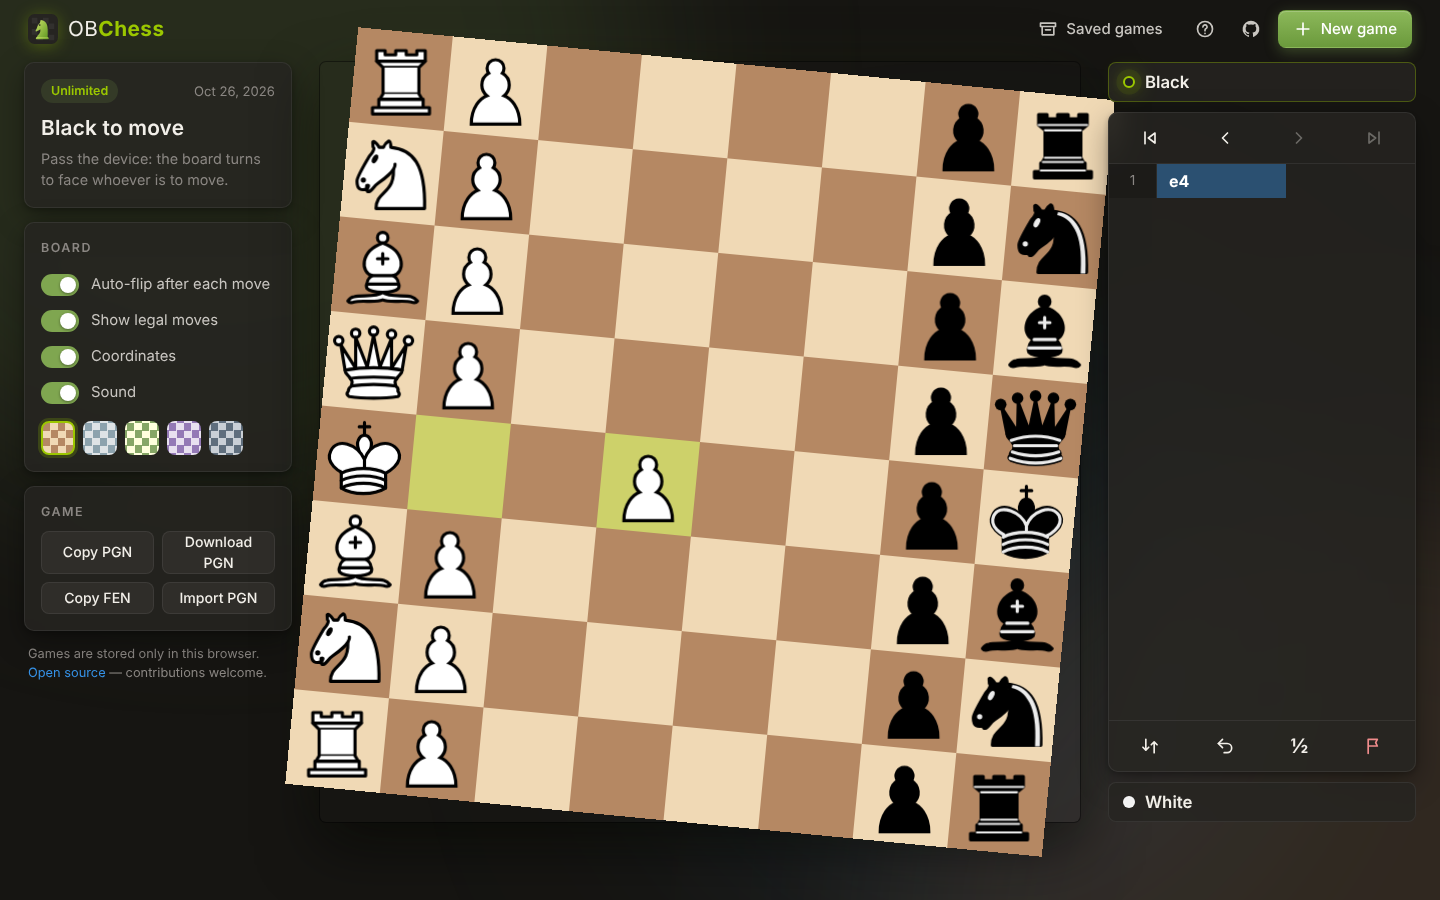
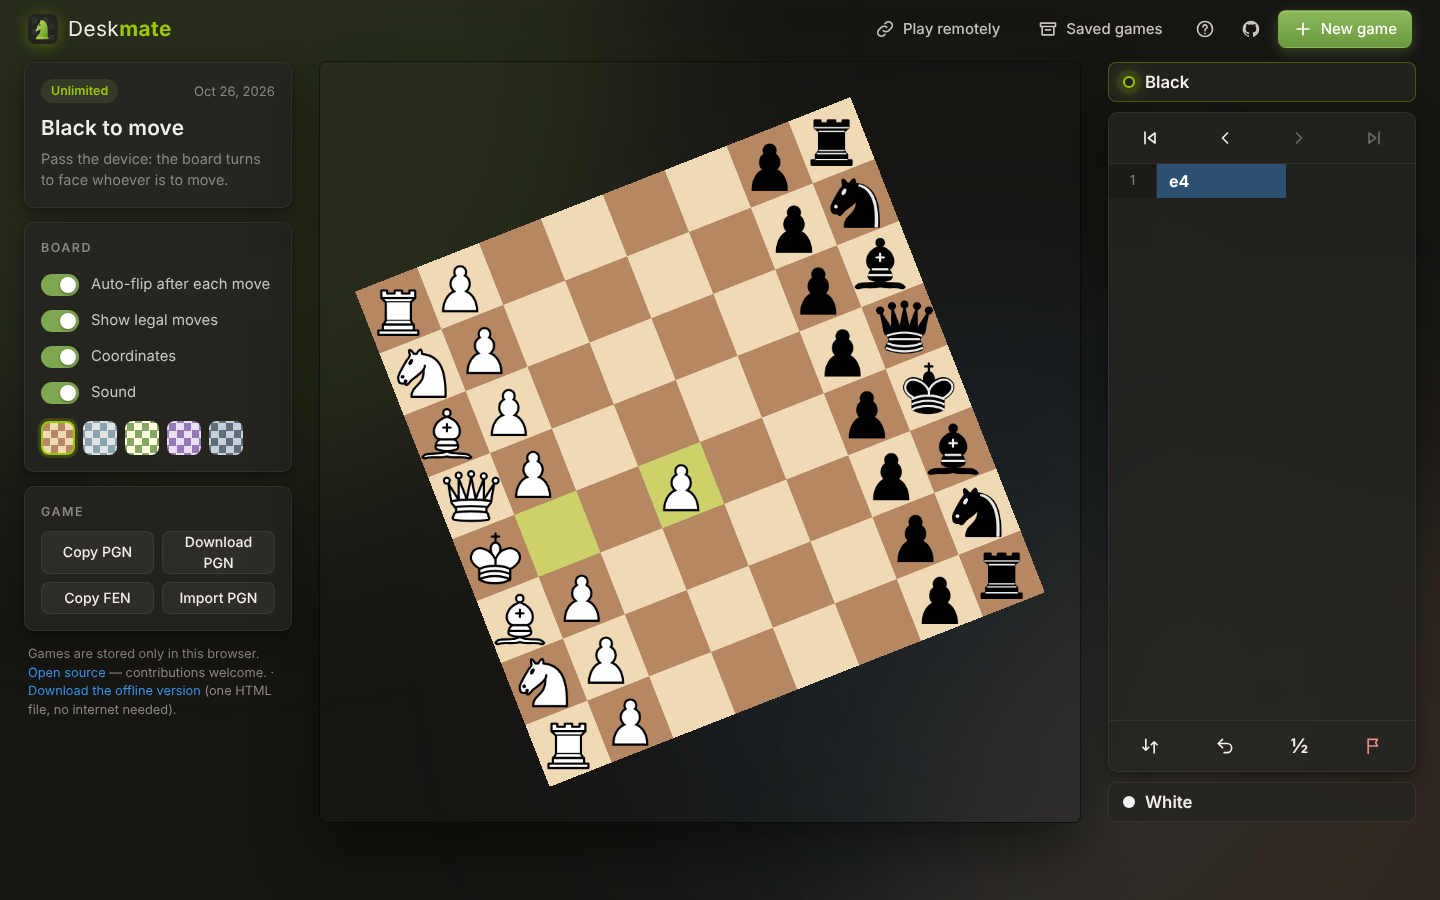
Rename the app to Deskmate
- brand, page title, manifest, PGN Site tag, docs and screenshots now say
  Deskmate; repo and Pages URLs are unchanged (the repo is still OBChess)
- game codes now start with DM1-; codes sent before the rename (OBC1-)
  are still accepted
- saved games and settings move from obchess:* to deskmate:* keys
  automatically on first load
- offline build is now deskmate.html
- shrink the board while it spins so the 45° mid-flip frame no longer
  spills over the side panels

Claude-Session: https://claude.ai/code/session_01KDQdv6Wnc5E9mhCg2NSnNR

diff --git a/index.html b/index.html
@@ -3,7 +3,7 @@
 <head>
   <meta charset="utf-8" />
   <meta name="viewport" content="width=device-width, initial-scale=1, viewport-fit=cover" />
-  <title>OBChess · Over-the-board chess</title>
+  <title>Deskmate · Chess with your colleagues</title>
   <meta name="description" content="Free, open-source over-the-board chess for two players on one screen. Auto-flipping board, legal move hints, clocks and local game history. No account, no tracking." />
   <meta name="theme-color" content="#161512" />
   <link rel="icon" href="assets/icon.svg" type="image/svg+xml" />
@@ -14,9 +14,9 @@
   <div class="aurora" aria-hidden="true"><i></i><i></i><i></i></div>
 
   <header class="topbar">
-    <a class="brand" href="./" aria-label="OBChess home">
+    <a class="brand" href="./" aria-label="Deskmate home">
       <img src="assets/icon.svg" alt="" width="30" height="30" />
-      <span>OB<b>Chess</b></span>
+      <span>Desk<b>mate</b></span>
     </a>
     <nav class="top-actions">
       <button class="btn ghost" id="btn-remote" title="Play a colleague on another laptop"><svg viewBox="0 0 24 24"><path d="M10 14a4.5 4.5 0 0 0 6.4 0l3-3a4.5 4.5 0 0 0-6.4-6.4l-1 1"/><path d="M14 10a4.5 4.5 0 0 0-6.4 0l-3 3a4.5 4.5 0 0 0 6.4 6.4l1-1"/></svg><span>Play remotely</span></button>
@@ -72,7 +72,7 @@
         <button class="btn small" id="btn-import">Import PGN</button>
       </section>
 
-      <p class="side-foot muted">Games are stored only in this browser. <a href="https://github.com/abhieq31/OBChess" target="_blank" rel="noopener">Open source</a> — contributions welcome.<span class="offline-dl"> · <a href="obchess.html" download>Download the offline version</a> (one HTML file, no internet needed).</span></p>
+      <p class="side-foot muted">Games are stored only in this browser. <a href="https://github.com/abhieq31/OBChess" target="_blank" rel="noopener">Open source</a> — contributions welcome.<span class="offline-dl"> · <a href="deskmate.html" download>Download the offline version</a> (one HTML file, no internet needed).</span></p>
     </aside>
 
     <section class="board-area">
@@ -153,7 +153,7 @@
       <button class="btn icon-only ghost" data-close aria-label="Close"><svg viewBox="0 0 24 24"><path d="M6 6l12 12M18 6 6 18"/></svg></button>
     </div>
     <ol class="steps">
-      <li><b>Make a move.</b> OBChess gives you a short game code.</li>
+      <li><b>Make a move.</b> Deskmate gives you a short game code.</li>
       <li><b>Send the code</b> through Teams, Slack, email or any chat.</li>
       <li><b>They paste it</b>, make their move and send a code back.</li>
     </ol>
@@ -179,7 +179,7 @@
       </div>
     </form>
     <form method="dialog" id="form-remote-join" data-pane="join" class="hidden">
-      <textarea id="remote-join-text" rows="4" spellcheck="false" placeholder="Paste the code your colleague sent (it starts with OBC1-)"></textarea>
+      <textarea id="remote-join-text" rows="4" spellcheck="false" placeholder="Paste the code your colleague sent (it starts with DM1-)"></textarea>
       <div class="modal-actions">
         <button type="button" class="btn" data-close>Cancel</button>
         <button type="submit" class="btn primary">Join game</button>

diff --git a/js/app.js b/js/app.js
@@ -1,10 +1,10 @@
-// OBChess application controller: wires the game model, board, clocks, storage and UI.
+// Deskmate application controller: wires the game model, board, clocks, storage and UI.
 import { Game, TIME_CONTROLS, checkSquare, material } from './game.js';
 import { Board } from './board.js';
 import { storage } from './storage.js';
 import { sound } from './sound.js';
 import { confetti } from './confetti.js';
-import { encodeCode, decodeCode, compareToLocal } from './remote.js';
+import { encodeCode, decodeCode, compareToLocal, hasCode } from './remote.js';
 
 const $ = (sel) => document.querySelector(sel);
 const $$ = (sel) => [...document.querySelectorAll(sel)];
@@ -157,7 +157,7 @@ function renderStatus() {
   }
   $('#status-text').textContent = title;
   $('#status-sub').textContent = sub;
-  document.title = g.result ? `${g.winnerText()} · OBChess` : review ? 'Review · OBChess' : `${colorName(game.turn)} to move · OBChess`;
+  document.title = g.result ? `${g.winnerText()} · Deskmate` : review ? 'Review · Deskmate' : `${colorName(game.turn)} to move · Deskmate`;
 
   const banner = $('#review-banner');
   const showBanner = !!review || viewPly !== game.length;
@@ -446,7 +446,7 @@ $('#archive-clear').addEventListener('click', () => {
 $('#archive-export').addEventListener('click', () => {
   const list = storage.loadArchive();
   if (!list.length) return toast('Nothing to export');
-  saveFile(`obchess-games-${Date.now()}.pgn`, list.map((g) => new Game(g).pgn()).join('\n'));
+  saveFile(`deskmate-games-${Date.now()}.pgn`, list.map((g) => new Game(g).pgn()).join('\n'));
 });
 
 $('#form-import').addEventListener('submit', (e) => {
@@ -753,13 +753,13 @@ function applyFromHash() {
   history.replaceState(null, '', location.pathname + location.search);
   joinOrUpdate(text);
 }
-addEventListener('hashchange', () => { if (location.hash.includes('OBC1-')) applyFromHash(); });
+addEventListener('hashchange', () => { if (hasCode(location.hash)) applyFromHash(); });
 
 // paste a code anywhere on the page
 document.addEventListener('paste', (e) => {
   if (e.target.closest('input, textarea')) return;
   const text = e.clipboardData?.getData('text') || '';
-  if (!text.includes('OBC1-')) return;
+  if (!hasCode(text)) return;
   e.preventDefault();
   joinOrUpdate(text);
 });
@@ -812,7 +812,7 @@ applyPrefs();
 if (!/^https?:$/.test(location.protocol)) $('.offline-dl')?.remove();
 board.setOrientation(homeOrientation());
 render();
-if (location.hash.includes('OBC1-')) applyFromHash();
+if (hasCode(location.hash)) applyFromHash();
 if (paused) toast('Game restored — clocks paused');
 else if (game.length) toast('Game restored');
 

diff --git a/js/remote.js b/js/remote.js
@@ -1,12 +1,18 @@
 // Game codes for remote play: the whole game is packed into a short text code
 // that players paste to each other in any chat tool. No server is involved.
 //
-// Code = "OBC1-" + base64url(JSON payload). Moves are stored as one byte each:
+// Code = "DM1-" + base64url(JSON payload); codes from before the rename start "OBC1-".
+// Moves are stored as one byte each:
 // the index of the move in the position's legal moves, sorted by from+to+promotion,
 // so the encoding doesn't depend on the move order of any particular chess library.
 import { Chess } from '../vendor/chess.js';
 
-export const CODE_PREFIX = 'OBC1-';
+export const CODE_PREFIX = 'DM1-';
+// any code this version can read: the current prefix plus the pre-rename one
+const CODE_RE = /\b(?:DM1|OBC1)-([A-Za-z0-9_-]+)/;
+
+/** True if the text contains something that looks like a game code. */
+export const hasCode = (text) => CODE_RE.test(String(text));
 
 const sortedMoves = (chess) =>
   chess.moves({ verbose: true })
@@ -60,11 +66,11 @@ export function encodeCode(g) {
 
 /** Extract and decode a code from arbitrary pasted text (a bare code, a chat message or a link). */
 export function decodeCode(text) {
-  const match = /OBC1-[A-Za-z0-9_-]+/.exec(String(text));
-  if (!match) throw new Error('No OBChess game code found.');
+  const match = CODE_RE.exec(String(text));
+  if (!match) throw new Error('No Deskmate game code found.');
   let p;
   try {
-    p = JSON.parse(new TextDecoder().decode(fromB64url(match[0].slice(CODE_PREFIX.length))));
+    p = JSON.parse(new TextDecoder().decode(fromB64url(match[1])));
   } catch {
     throw new Error('This code is damaged — ask your opponent to copy it again.');
   }

diff --git a/css/style.css b/css/style.css
@@ -1,5 +1,5 @@
 /* ==========================================================================
-   OBChess — styles. Dark, lichess-inspired UI. No build step, no framework.
+   Deskmate — styles. Dark, lichess-inspired UI. No build step, no framework.
    ========================================================================== */
 
 :root {
@@ -189,7 +189,12 @@ h3 { font-size: 0.78rem; text-transform: uppercase; letter-spacing: 0.12em; colo
   position: absolute; inset: 0; border-radius: 6px; overflow: hidden;
   transform: rotate(var(--rot));
 }
-.board.flipping .board-inner { transition: transform 0.62s cubic-bezier(.65, 0, .35, 1); overflow: visible; }
+.board.flipping .board-inner {
+  transition: transform 0.62s cubic-bezier(.65, 0, .35, 1); overflow: visible;
+  /* a square turned 45° is 1.41x as wide: shrink to 0.7 while turning so it stays in its own column */
+  animation: flipShrink 0.62s linear;
+}
+@keyframes flipShrink { 30%, 70% { scale: 0.7; } }
 
 .squares { position: absolute; inset: 0; display: grid; grid-template: repeat(8, 1fr) / repeat(8, 1fr); }
 .sq { position: relative; }

diff --git a/js/storage.js b/js/storage.js
@@ -1,6 +1,16 @@
 // localStorage persistence. Everything stays in this browser; nothing is sent anywhere.
-const KEYS = { current: 'obchess:current', archive: 'obchess:archive', settings: 'obchess:settings' };
+const KEYS = { current: 'deskmate:current', archive: 'deskmate:archive', settings: 'deskmate:settings' };
 const ARCHIVE_LIMIT = 300;
+
+// the app used to be called OBChess: carry its saved data over once
+try {
+  for (const [name, key] of Object.entries(KEYS)) {
+    const legacy = `obchess:${name}`;
+    const old = localStorage.getItem(legacy);
+    if (old !== null && localStorage.getItem(key) === null) localStorage.setItem(key, old);
+    if (old !== null) localStorage.removeItem(legacy);
+  }
+} catch { /* storage unavailable */ }
 
 const read = (key, fallback) => {
   try {

diff --git a/js/game.js b/js/game.js
@@ -200,7 +200,7 @@ export class Game {
     // chess.js's PGN parser does not accept escaped quotes, so swap them for apostrophes
     const esc = (s) => String(s).replace(/[\\"]/g, "'");
     const headers = [
-      ['Event', this.remote ? 'Casual remote game' : 'Casual over-the-board game'], ['Site', 'OBChess'], ['Date', date],
+      ['Event', this.remote ? 'Casual remote game' : 'Casual over-the-board game'], ['Site', 'Deskmate'], ['Date', date],
       ['White', this.white], ['Black', this.black], ['Result', this.result || '*'],
       ['TimeControl', tc.base ? `${tc.base * 60}+${tc.inc}` : '-'],
     ];

diff --git a/sw.js b/sw.js
@@ -1,5 +1,5 @@
 // Offline support: cache the app shell, serve cache-first, refresh in the background.
-const CACHE = 'obchess-v2';
+const CACHE = 'deskmate-v3';
 const ASSETS = [
   './', 'index.html', 'css/style.css', 'manifest.webmanifest', 'assets/icon.svg',
   'js/app.js', 'js/board.js', 'js/game.js', 'js/storage.js', 'js/sound.js', 'js/confetti.js', 'js/remote.js',

diff --git a/README.md b/README.md
@@ -1,32 +1,32 @@
 <div align="center">
 
-<img src="assets/icon.svg" width="72" alt="OBChess logo" />
+<img src="assets/icon.svg" width="72" alt="Deskmate logo" />
 
-# OBChess
+# Deskmate
 
 **Chess with your colleagues: on one laptop, or across two.**
 Put the laptop between you and play, or send game codes through the chat tool you already use.
 
-[**▶ Play now**](https://abhieq31.github.io/OBChess/) · [**⬇ Offline version**](https://abhieq31.github.io/OBChess/obchess.html) · [Report a bug](https://github.com/abhieq31/OBChess/issues/new?template=bug_report.md) · [Suggest a feature](https://github.com/abhieq31/OBChess/issues/new?template=feature_request.md)
+[**▶ Play now**](https://abhieq31.github.io/OBChess/) · [**⬇ Offline version**](https://abhieq31.github.io/OBChess/deskmate.html) · [Report a bug](https://github.com/abhieq31/OBChess/issues/new?template=bug_report.md) · [Suggest a feature](https://github.com/abhieq31/OBChess/issues/new?template=feature_request.md)
 
-<img src="docs/screenshot.png" alt="OBChess game screen: board in the centre, players, clocks and move list on the right" width="860" />
+<img src="docs/screenshot.png" alt="Deskmate game screen: board in the centre, players, clocks and move list on the right" width="860" />
 
 </div>
 
 ## Why
 
-Chess sites get blocked on work networks. OBChess is a static page with no
+Chess sites get blocked on work networks. Deskmate is a static page with no
 server, no account, no tracking and no third-party requests. It runs from
 GitHub Pages or `localhost`, or as **one HTML file you open by
 double-click**. It also works with no network at all.
 
-Please use it in line with your employer's policies. OBChess keeps
+Please use it in line with your employer's policies. Deskmate keeps
 everything local; it is not designed to get around IT controls.
 
 ## Features
 
 - **Play a colleague on another laptop with game codes.** After your move
-  you get a short code like `OBC1-eyJp…`. Paste it into Teams, Slack, email
+  you get a short code like `DM1-eyJp…`. Paste it into Teams, Slack, email
   or any chat. Your colleague pastes it and moves, then sends a code back.
   There's no server and no account, and nothing to block apart from the chat
   you already use. ([how it works](#play-a-colleague-remotely))
@@ -61,7 +61,7 @@ everything local; it is not designed to get around IT controls.
 2. You get a **game code** (and a link). Send it to your colleague in any chat.
 3. They click the link, or press **Play remotely → I have a code** and paste
    it. They can also press **Ctrl+V** anywhere on the page.
-4. After each move OBChess copies the new code to your clipboard. Send it,
+4. After each move Deskmate copies the new code to your clipboard. Send it,
    and paste the reply when it comes back. Repeat until mate. 🙂
 
 Draw offers, resignations and the final result travel inside the codes too.
@@ -79,10 +79,10 @@ which is fine for a game at your desk.
 
 ## Offline version (one file)
 
-[`obchess.html`](https://abhieq31.github.io/OBChess/obchess.html) is the
+[`deskmate.html`](https://abhieq31.github.io/OBChess/deskmate.html) is the
 whole app (about 225 KB) in a single file. Save it anywhere and open it by
 double-click. It makes no network requests. Build it yourself with
-`npm run build` (writes `dist/obchess.html`).
+`npm run build` (writes `dist/deskmate.html`).
 
 ## Run it locally
 
@@ -123,7 +123,7 @@ js/storage.js         localStorage wrapper
 js/sound.js           Web Audio synthesized sounds
 js/confetti.js        celebration effect
 sw.js                 offline cache (service worker)
-scripts/build-single.mjs  bundles everything into dist/obchess.html (no deps)
+scripts/build-single.mjs  bundles everything into dist/deskmate.html (no deps)
 vendor/chess.js       chess rules engine (chess.js 1.4.0, BSD-2-Clause)
 tests/                node:test unit tests for js/game.js and js/remote.js
 ```
@@ -143,9 +143,9 @@ Contributions are welcome, from typo fixes to new features. See
 
 ## Credits & licenses
 
-- OBChess source code: [MIT](LICENSE)
+- Deskmate source code: [MIT](LICENSE)
 - Rules engine: [chess.js](https://github.com/jhlywa/chess.js) by Jeff Hlywa, BSD-2-Clause
 - Pieces: *cburnett* set by Colin M.L. Burnett, GPLv2+, via [lichess](https://github.com/lichess-org/lila). See [assets/pieces/cburnett/LICENSE.md](assets/pieces/cburnett/LICENSE.md)
 - Visual language inspired by [lichess.org](https://lichess.org). Please support them.
 
-Please use OBChess where your employer's policies allow it.
+Please use Deskmate where your employer's policies allow it.

diff --git a/CONTRIBUTING.md b/CONTRIBUTING.md
@@ -1,6 +1,6 @@
-# Contributing to OBChess
+# Contributing to Deskmate
 
-Thanks for helping out! OBChess is deliberately simple: plain HTML, CSS and
+Thanks for helping out! Deskmate is deliberately simple: plain HTML, CSS and
 ES modules, with no framework and no build step. Please keep it that way
 unless there's a strong reason not to.
 
@@ -28,11 +28,11 @@ npm test                      # unit tests (Node 18+, no install needed)
 - If you add a file to the app, add it to the `ASSETS` list in `sw.js` and
   bump `CACHE` so returning visitors get the update. If it's a JS module,
   also add it to `MODULES` in `scripts/build-single.mjs` (in dependency order).
-- Run `npm run build` and open `dist/obchess.html` by double-click to check
+- Run `npm run build` and open `dist/deskmate.html` by double-click to check
   that the single-file offline version still works.
 - **Game codes (`js/remote.js`) are a wire format.** Keep old codes
-  decodable. If the format has to change, use a new prefix (`OBC2-`) and
-  keep decoding `OBC1-`.
+  decodable. If the format has to change, use a new prefix (`DM2-`) and
+  keep decoding `DM1-` (and the legacy `OBC1-`).
 
 ## Pull requests
 

diff --git a/assets/pieces/cburnett/LICENSE.md b/assets/pieces/cburnett/LICENSE.md
@@ -6,6 +6,6 @@ as distributed by [lichess.org](https://github.com/lichess-org/lila/tree/master/
 License: [GPLv2 or later](https://www.gnu.org/licenses/gpl-2.0.txt).
 
 These files are separate assets, loaded by the app at runtime, and are not
-covered by the MIT license of the OBChess source code. To ship OBChess under
+covered by the MIT license of the Deskmate source code. To ship Deskmate under
 MIT terms only, swap this folder for a piece set with a permissive license and
 update the `.wK`…`.bP` rules in `css/style.css`.

diff --git a/.github/ISSUE_TEMPLATE/feature_request.md b/.github/ISSUE_TEMPLATE/feature_request.md
@@ -1,6 +1,6 @@
 ---
 name: Feature request
-about: Suggest an idea for OBChess
+about: Suggest an idea for Deskmate
 labels: enhancement
 ---
 
